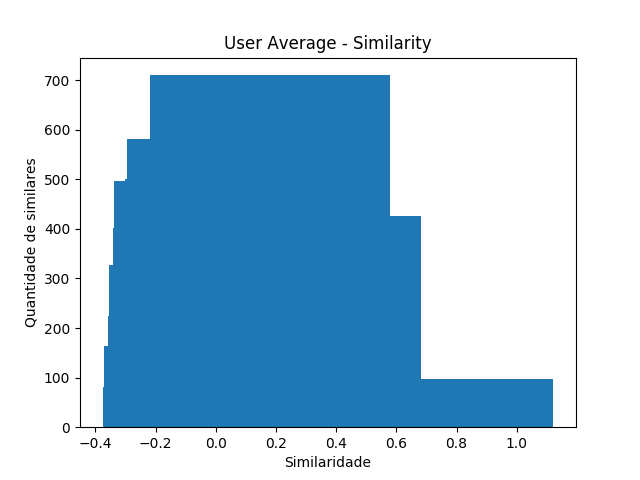
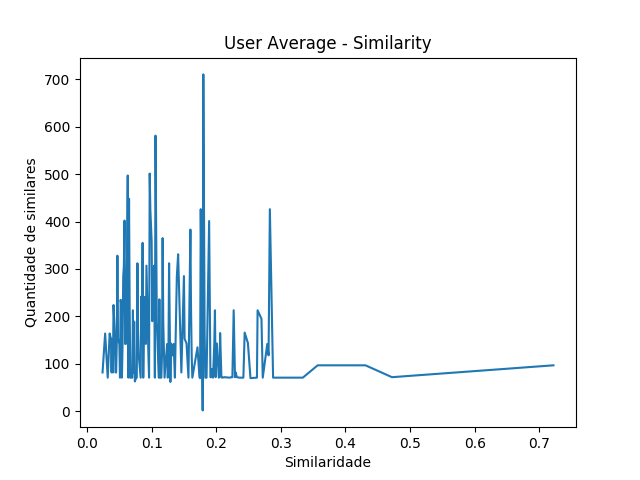
grafico em linhas sendo gerado

diff --git a/apps/recommenders/UserAverage/analyzer/algorithm.py b/apps/recommenders/UserAverage/analyzer/algorithm.py
@@ -76,10 +76,10 @@ def similarity_gScatter(allItens = UserAverage_Recommendations.objects.all()):
     plt.savefig(str(directory) + 'similarity_gScatter.png')
     plt.close()
     logger.info("[Finish User Average Similarity (Graph Scatter)]")
-def similarity_gBar(allItens = UserAverage_Recommendations.objects.all()):
-    logger.info("[Start User Average Similarity (Graph Bar)]")
+def similarity_gLine(allItens = UserAverage_Recommendations.objects.all()):
+    logger.info("[Start User Average Similarity (Graph Line)]")
     itemValues = [float("{0:.3f}".format(item.similarity)) for item in allItens]
-    countList = Counter(itemValues)
+    countList = Counter(sorted(itemValues))
     logger.debug('User Average Similarity -> List len: ' + str(len(itemValues)))
     directory = str('./files/apps/recommenders/UserAverange/graphs/' + str(connection.settings_dict['NAME']) + '/algorithm/' + str(allItens.last().created_at) + '/')
     if not os.path.exists(directory):
@@ -88,8 +88,8 @@ def similarity_gBar(allItens = UserAverage_Recommendations.objects.all()):
     plt.title('User Average - Similarity')
     plt.ylabel('Quantidade de similares')
     plt.xlabel('Similaridade')
-    plt.bar(countList.keys(),countList.values())
+    plt.plot(countList.keys(),countList.values())
     plt.legend(loc='best')
     plt.savefig(str(directory) + 'similarity_gBar.png')
     plt.close()
-    logger.info("[Finish User Average Similarity (Graph Bar)]")
+    logger.info("[Finish User Average Similarity (Graph Line)]")

diff --git a/apps/recommenders/UserAverage/analyzer/views.py b/apps/recommenders/UserAverage/analyzer/views.py
@@ -1,11 +1,11 @@
-from .algorithm import score_gBar, recommended_gBar, like_gBar, similarity_gScatter, similarity_gBar
+from .algorithm import score_gBar, recommended_gBar, like_gBar, similarity_gScatter, similarity_gLine
 from .benchmark import bench_gBar, bench_gBoxPlot, bench_gLine, bench_gScatter
 
 def runUserAverageValueGraph():
     like_gBar()
     recommended_gBar()
     score_gBar()
-    similarity_gBar()
+    similarity_gLine()
     similarity_gScatter()
 def runUserAverageBenchmarkGraph():
     bench_gBar()
